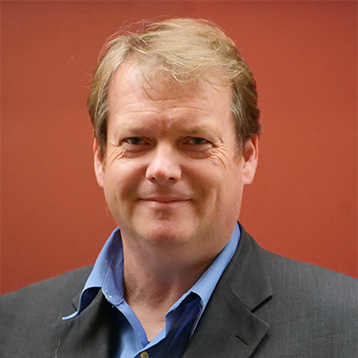
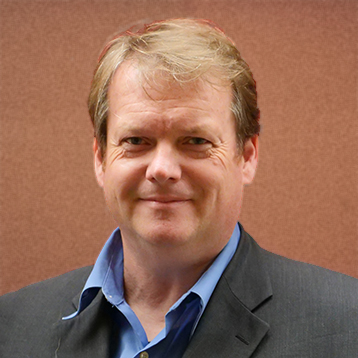
tidy up margins and retouched photo

diff --git a/docs/templates/docs/team.html b/docs/templates/docs/team.html
@@ -1,26 +1,34 @@
 {%- extends "docs/base.html" -%}
 
 {% macro render_person(person) %}
-    <article class="tile is-child is-6 staff">
-      <img class="image is-128x128" style="border-radius: 50%" src="{{ url_for('.static', filename=person.thumbnail) }}" alt="" />
-      <h2 class="is-6">{{ person.name }}</h2>
-      <p class="subtitle">{{ person.position }}</p>
-      <p>{{ person.bio }}</p>
-      {% if person.orcid %}
-        <p class="orcid"><a href="{{ person.orcid }}">{{ person.orcid }}</a></p>
-      {% endif %}
-      {% if person.twitter %}
-        <p class="twit"><span class="icon is-link"><i class="fa fa-twitter" role="presentation"></i></span>@{{ person.twitter }}</p>
-      {% endif %}
+    <article class="column is-half">
+      <div class="media">
+        <div class="media-left is-hidden-mobile">
+          <p class="image is-96x96"><img style="border-radius: 50%" src="{{ url_for('.static', filename=person.thumbnail) }}" alt="" /></p>
+        </div>
+        <div class="media-content">
+          <p class="image is-48x48 is-hidden-tablet is-pulled-left" style=" margin-right: .5em; margin-top: 1.5em;"><img style="border-radius: 50%;" src="{{ url_for('.static', filename=person.thumbnail) }}" alt="" /></p>
+          <h2 class="title">{{ person.name }}</h2>
+          <p class="subtitle">{{ person.position }}</p>
+          <p>{{ person.bio }}</p>
+          <ul class="is-marginless">
+          {% if person.orcid %}
+            <li class="orcid" style="list-style: none"><span class="icon is-small" style="vertical-align: middle"><img src="{{ url_for('.static', filename='images/orcid_32x32.png') }}" alt="" /></span> <a href="{{ person.orcid }}">{{ person.orcid }}</a></li>
+          {% endif %}
+          {% if person.twitter %}
+            <li class="twit" style="list-style: none"><span class="icon is-small"><i class="fa fa-twitter has-text-link" role="presentation"></i></span><a href="https://twitter.com/{{ person.twitter }}">@{{ person.twitter }}</a></li>
+          {% endif %}
+          </ul>
+        </div>
+      </div>
+
     </article>
 {% endmacro %}
 
-{% macro render_tiles_open() -%}
-  <div class="tile is-ancestor">
-    <div class="tile is-parent">
+{% macro render_columns_open() -%}
+  <div class="columns">
 {%- endmacro %}
 
-{% macro render_tiles_closed() -%}
-    </div>
+{% macro render_columns_closed() -%}
   </div>
 {%- endmacro %}

diff --git a/about/leadership-team.md b/about/leadership-team.md
@@ -6,7 +6,7 @@ people:
     name: Erick Peirson
     position: Lead Software Architect
     orcid: https://orcid.org/0000-0002-0564-9939
-    twitter: undercaffienatd
+    twitter: undercaffeinatd
     thumbnail: images/erick.jpg
     bio: |
       Erick is responsible for high-level technical decisions, planning, and collaboration related to the arXiv software system. His main focus is the arXiv-NG project, which moves the arXiv.org software system into a modern, cloud-native architectural paradigm. Erick’s background is in software development for information systems and computational research, and he also holds a PhD in History & Philosophy of Science.
@@ -26,7 +26,7 @@ people:
     name: Oya Y. Rieger
     position: Program Director
     orcid: https://orcid.org/0000-0001-6175-5157
-    twitter: Oya.Rieger
+    twitter: OyaRieger
     thumbnail: images/oya.jpg
     bio: |
       Oya has been leading the arXiv operation and spearheaded the development of the governance and sustainability model since 2010. She has provided leadership in several national and international scholarly communication and digital preservation initiatives and holds a Ph.D. in Human-Computer Interaction (Cornell University).
@@ -43,14 +43,14 @@ people:
 arXiv Leadership Team
 =====================
 
-{{ render_tiles_open() }}
+{{ render_columns_open() }}
 {{ render_person(people.oya) }}
 {{ render_person(people.steinn) }}
-{{ render_tiles_closed() }}
-{{ render_tiles_open() }}
+{{ render_columns_closed() }}
+{{ render_columns_open() }}
 {{ render_person(people.martin) }}
 {{ render_person(people.erick) }}
-{{ render_tiles_closed() }}
-{{ render_tiles_open() }}
+{{ render_columns_closed() }}
+{{ render_columns_open() }}
 {{ render_person(people.jim) }}
-{{ render_tiles_closed() }}
+{{ render_columns_closed() }}
